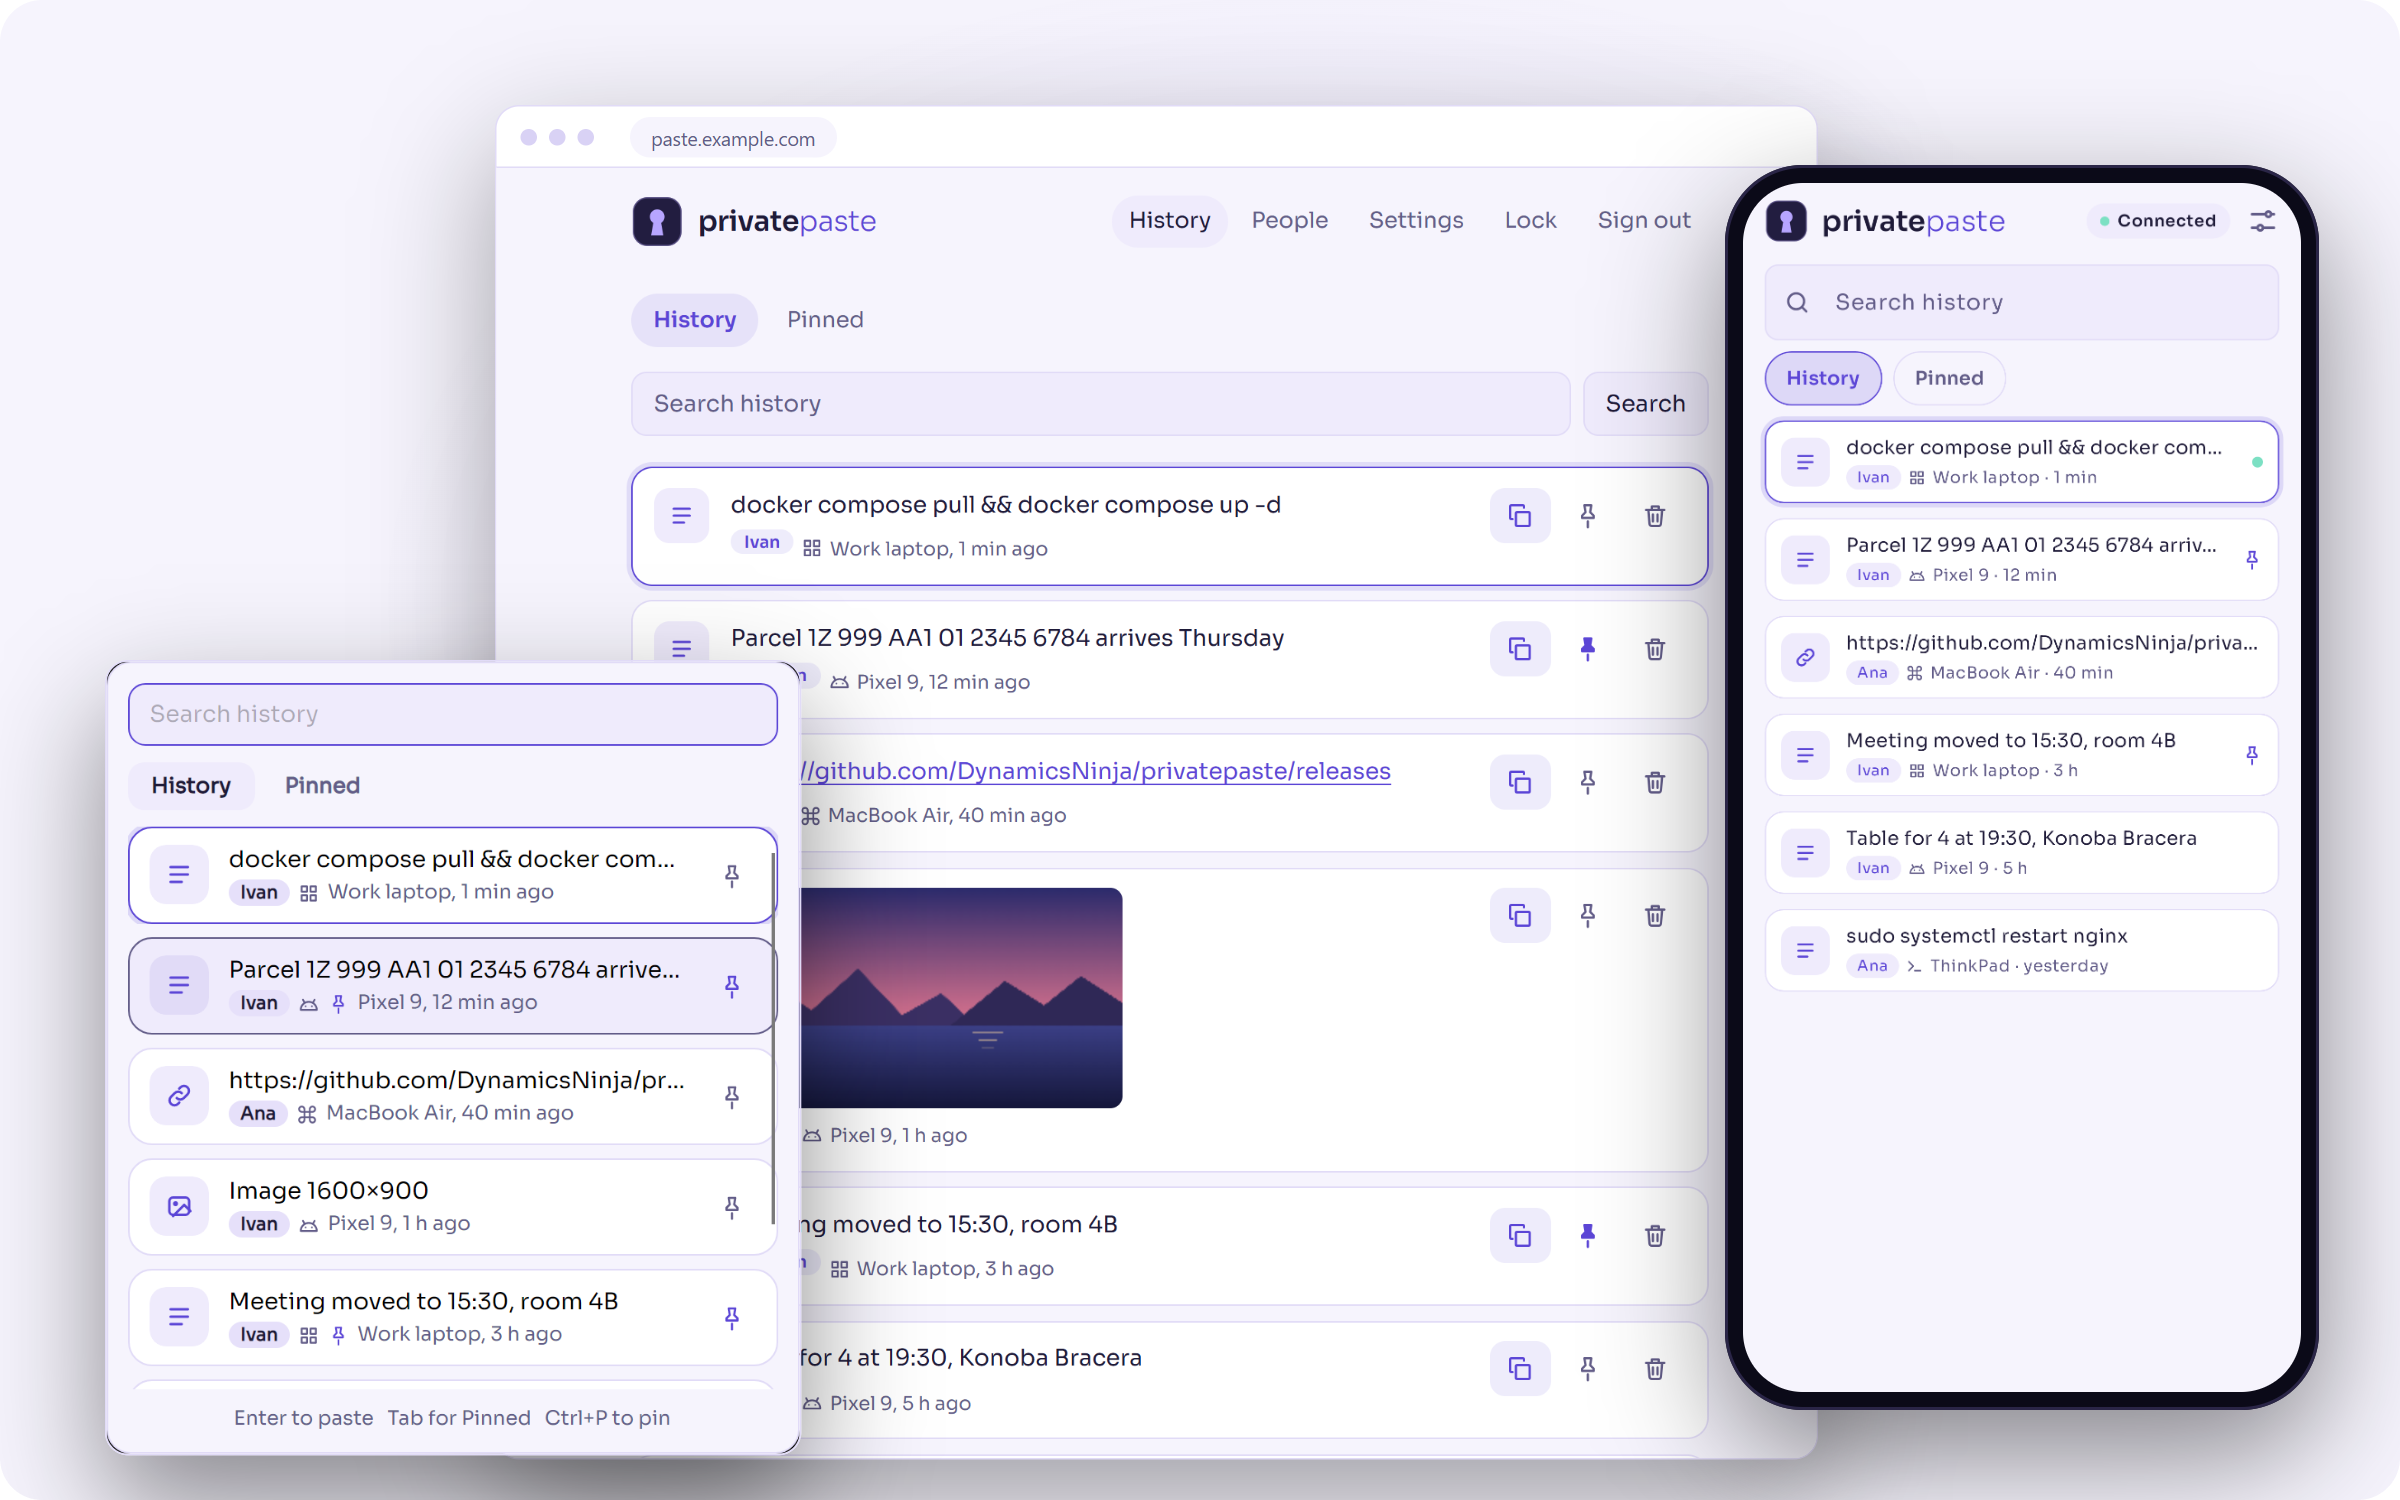
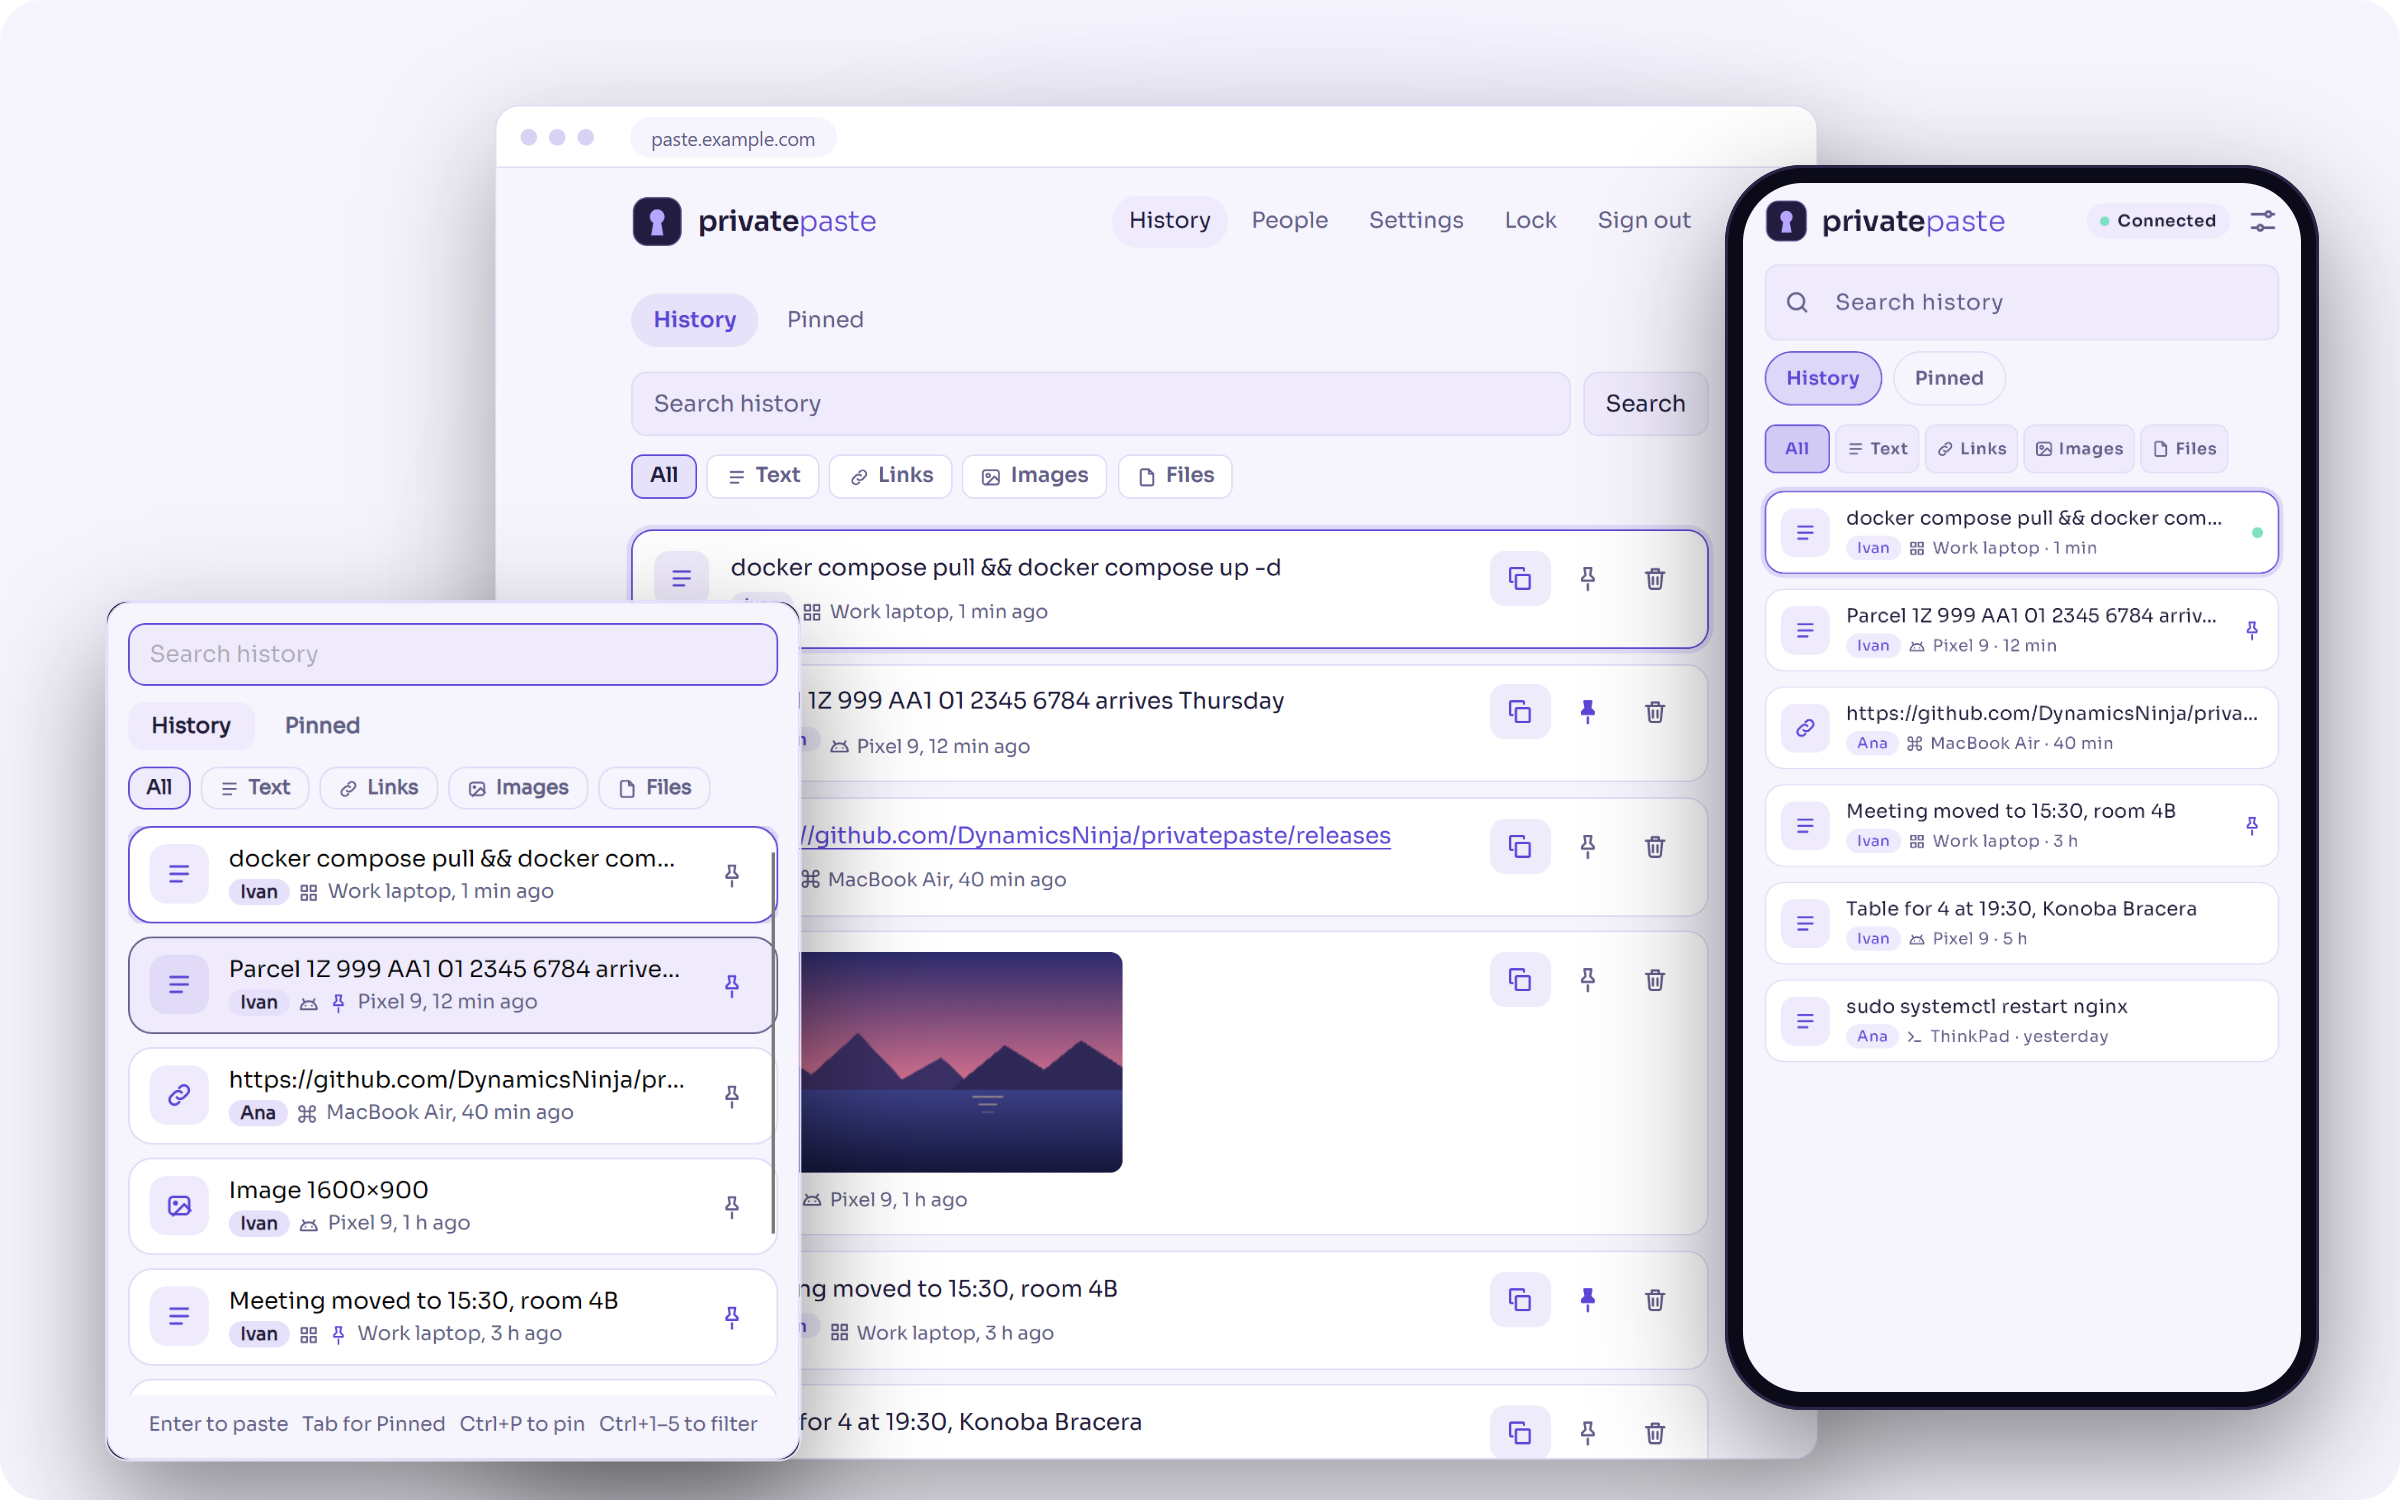
docs: README hero and homepage images with the type filter
The popup is now 420x520, so the hero places it 40 px higher to keep it inside the stage.

Claude-Session: https://claude.ai/code/session_01S7qnD437g4CEeyvft1WbEb

diff --git a/scripts/readme/hero.html b/scripts/readme/hero.html
@@ -12,7 +12,7 @@ html,body{margin:0;background:transparent}
 .bar i{width:11px;height:11px;border-radius:50%;background:var(--dot);display:block}
 .bar span{margin-left:16px;font-size:13px;color:var(--muted);background:var(--bg);padding:5px 14px;border-radius:999px}
 .win img{display:block;width:898px;height:860px;object-fit:cover;object-position:top left;clip-path:inset(0 18px 0 0)}
-.pop{position:absolute;left:70px;top:440px;width:420px;border-radius:14px;overflow:hidden;
+.pop{position:absolute;left:70px;top:400px;width:420px;border-radius:14px;overflow:hidden;
  border:1px solid var(--line);box-shadow:0 30px 70px rgba(0,0,0,.45);transform:scale(1.1);transform-origin:top left}
 .pop img{display:block;width:420px}
 .phone{position:absolute;left:1150px;top:110px;width:372px;height:806px;border-radius:52px;padding:12px;background:#0b0a18;

diff --git a/scripts/site/carousel.html b/scripts/site/carousel.html
@@ -18,7 +18,7 @@ html,body{margin:0;background:transparent}
 /* web-*.png is 880x860 CSS px at 2x; show CSS x 80..800 and y 0..752 (down to the end of the fifth clip). */
 .crop{width:276px;height:calc(752px * 276 / 720);overflow:hidden;position:relative}
 .crop img{position:absolute;width:calc(880px * 276 / 720);left:calc(-80px * 276 / 720);top:0}
-/* Desktop: the popup at 2x (readme-popup-*.png is 840x960) as a floating window. The shot has its own border and
+/* Desktop: the popup at 2x (readme-popup-*.png is 840x1040) as a floating window. The shot has its own border and
    black corners outside its 14 px radius (9.2 px here), so round a hair wider to hide them. */
 .pop{width:276px;border-radius:10px;overflow:hidden;box-shadow:0 8px 20px var(--shadow)}
 .pop img{display:block;width:100%}

diff --git a/tests/PrivatePaste.Tests/Client/DesktopRenderTests.cs b/tests/PrivatePaste.Tests/Client/DesktopRenderTests.cs
@@ -526,7 +526,7 @@ public class DesktopRenderTests
     /// <summary>
     /// The README hero's popup, from the demo history in scripts/readme/demo.json (see scripts/readme/README.md).
     /// Runs only when PP_README_DEMO names that file; saves readme-popup-{theme}.png into PP_SCREENSHOT_DIR at 2x
-    /// (840x960), so the homepage can show it sharp on high-density screens.
+    /// (840x1040), so the homepage can show it sharp on high-density screens.
     /// </summary>
     [Theory]
     [InlineData("dark")]

diff --git a/scripts/readme/README.md b/scripts/readme/README.md
@@ -21,7 +21,7 @@ powershell -File scripts/readme/build.ps1
 It needs the .NET SDK, Node.js and a JDK 21 (`JAVA_HOME`, or Android Studio's / Microsoft's JDK, found automatically). It takes a few minutes and does this, all locally:
 
 1. Publishes the server into `scripts/readme/out/server` and starts it on http://localhost:5311 with a fresh, empty data directory; the owner is `owner` with the password `dev`. It never touches a real server.
-2. Renders the desktop popup from `demo.json` with the real Avalonia theme: the test `DesktopRenderTests.Readme_popup` writes `out/readme-popup-{dark,light}.png` at 2x (840×960), so it stays sharp where it is shown larger.
+2. Renders the desktop popup from `demo.json` with the real Avalonia theme: the test `DesktopRenderTests.Readme_popup` writes `out/readme-popup-{dark,light}.png` at 2x (840×1040), so it stays sharp where it is shown larger.
 3. Renders the Android history from `demo.json` with Robolectric: `ReadmeScreenshotTest` writes `out/readme-history-{dark,light}.png`. Image clips are left out there, because the test has no thumbnail to load.
 4. Runs `capture.mjs` (Playwright, using the installed Edge or Playwright's Chromium):
    - renders `photo.html` to `out/photo.png`, the picture used for the image clip, and lets the browser work out what a client uploads with it: the content hash of its pixels and a PNG thumbnail that fits 256×256;
@@ -42,7 +42,7 @@ Then look at both PNGs and commit them. The README shows the dark one in dark mo
 - **Demo content:** `demo.json`, newest first. `user` is the person who copied it (the first one named is the owner; each device belongs to one person, and the name chips only show because there are two people). `kind` is `text`, `link` or `image`; `platform` picks the icon. Keep it to 4 distinct devices: the server allows 5 sign-ins a minute and the web UI needs one. Keep it realistic and free of personal data.
 - **Layout:** `hero.html`. Positions are in CSS pixels on a 1600×1000 stage; the colors at the top are the `DESIGN.md` tokens.
 - **Picture in the image clip:** `photo.html` (an inline SVG).
-- **Sizes:** the web viewport and scale are in `capture.mjs`; the phone size comes from the Robolectric qualifiers in `ReadmeScreenshotTest`; the popup is its real window size (420×480), drawn at 2x.
+- **Sizes:** the web viewport and scale are in `capture.mjs`; the phone size comes from the Robolectric qualifiers in `ReadmeScreenshotTest`; the popup is its real window size (420×520), drawn at 2x.
 
 ### If a step fails
 
